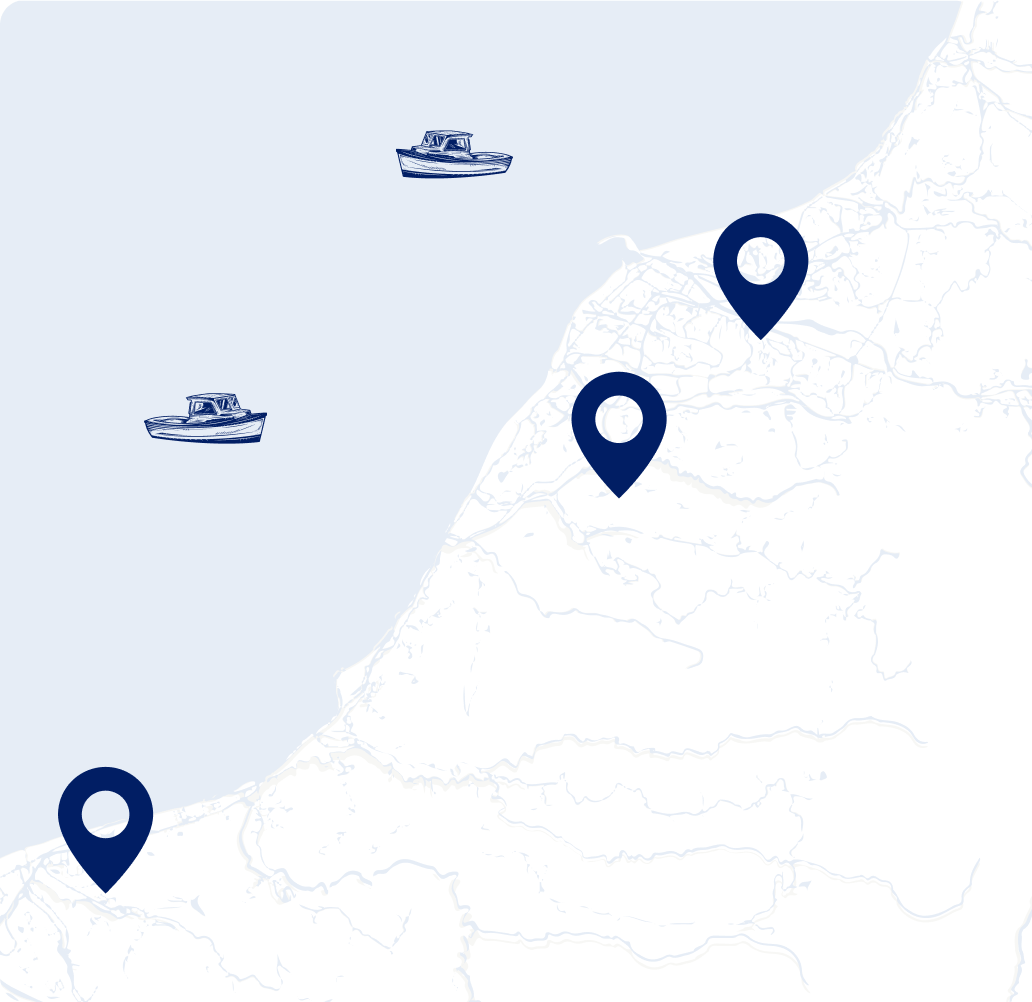
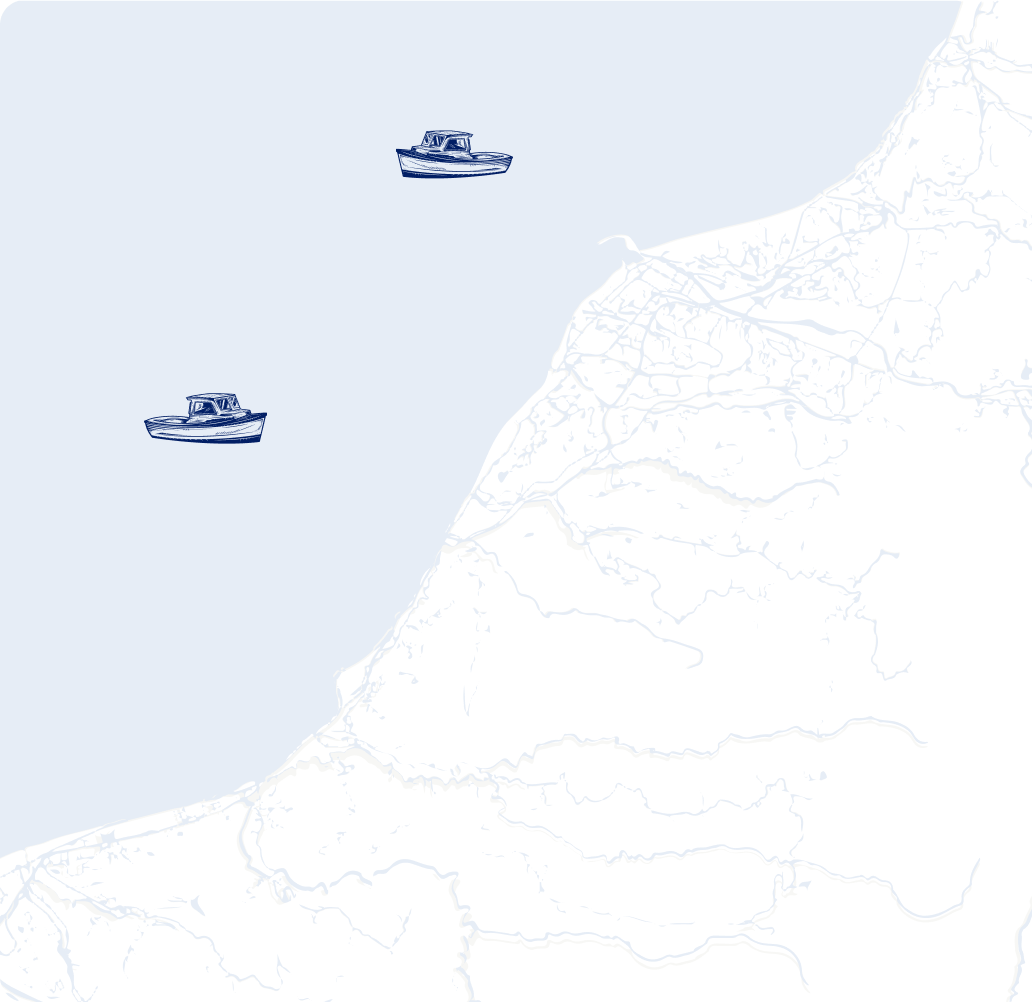
adit-about-page

Changed region(s): [[0.6822, 0.2166, 0.8062, 0.3403], [0.031, 0.7425, 0.155, 0.8972], [0.5271, 0.3713, 0.6512, 0.495]]

diff --git a/src/js/main.js b/src/js/main.js
@@ -103,17 +103,7 @@ document.addEventListener("DOMContentLoaded", function () {
         })
       });
     }
-    // const zoomPlus = document.querySelector('.map-zoom-plus');
-    // const zoomMinus = document.querySelector('.map-zoom-minus');
-    // if(zoomPlus){
-    //   const zoomMap = document.querySelector('#map-image');
-    //   zoomPlus.addEventListener('click', ()=>{
-    //     zoomMap.classList.add('map-scale');
-    //   });
-    //   zoomMinus.addEventListener('click', ()=>{
-    //     zoomMap.classList.remove('map-scale');
-    //   });
-    // }
+
     //PRODUCT SLIDER
     const productSwipers = document.querySelectorAll('.product-swiper');
     productSwipers.forEach((swiperEl, index) => {
@@ -146,6 +136,7 @@ document.addEventListener("DOMContentLoaded", function () {
     //partners swiper
     const partnersSlider = new Swiper('.partners-swiper', {
         slidesPerView: 'auto',
+        slidesPerGroup: 1,
         spaceBetween: 40,
         speed:1500,
         loop: true,
@@ -160,9 +151,11 @@ document.addEventListener("DOMContentLoaded", function () {
           1024: {
             spaceBetween: 60,
              
+             
           },
           1440: {
             spaceBetween: 60,
+            
              
           },
         }

diff --git a/src/scss/sections/_contacts.scss b/src/scss/sections/_contacts.scss
@@ -10,12 +10,15 @@
 	address{
 		font-family: var(--font-family);
 		font-weight: 700;
-		font-size: 2.1em;
+		font-size: remy(20);
 		line-height: 1.22;
 		letter-spacing: 0.03em;
 		margin-bottom: 3px;
 		span{
 			font-weight: 400;
+			font-size: remy(18);
+			margin-top: 3px;
+			display: block;
 		}
 		
 	}
@@ -122,36 +125,33 @@
 		top: 5%;
     	left: 68%;
 		@media (max-width: 767px) {
-		 left: 91%;
+		 left: 76%;
+		 top:14%;
 		}
 	}
 	[data-store="2"]{
 		top: 13%;
     	left: 58%;
 		@media (max-width: 767px) {
-		 left: 55%;
+		 left: 64%;
+		 top: 27%;
 		}
 	}
-	// [data-store="3"]{
-	// 	top: 29%;
-   	// 	 left: 50%;
-	// 	@media (max-width: 767px) {
-	// 	 left: 42%;
-	// 	}
-	// }
+	
 	[data-store="3"]{
 		top: 67%;
         left: 20%;
 		@media (max-width: 767px) {
-		 left: 11%;
+		 left: 13%;
+		 top:72%;
 		 
 		}
 	}
 	.img-cover{
-		object-position: left;
-		@media (max-width: 767px) {
-		object-position: 55%;
-		}
+		// object-position: left;
+		// @media (max-width: 767px) {
+		// object-position: 55%;
+		// }
 	}
 	
 }
@@ -174,13 +174,7 @@
 		 left: 64%;
 		}
 	}
-	// [data-store="3"]{
-	// 	top: 39%;
-	// 	left: 56%;
-	// 	@media (max-width: 767px) {
-	// 	 left: 50%;
-	// 	}
-	// }
+	
 	[data-store="3"]{
 		top: 78%;
 		left: 7%;
